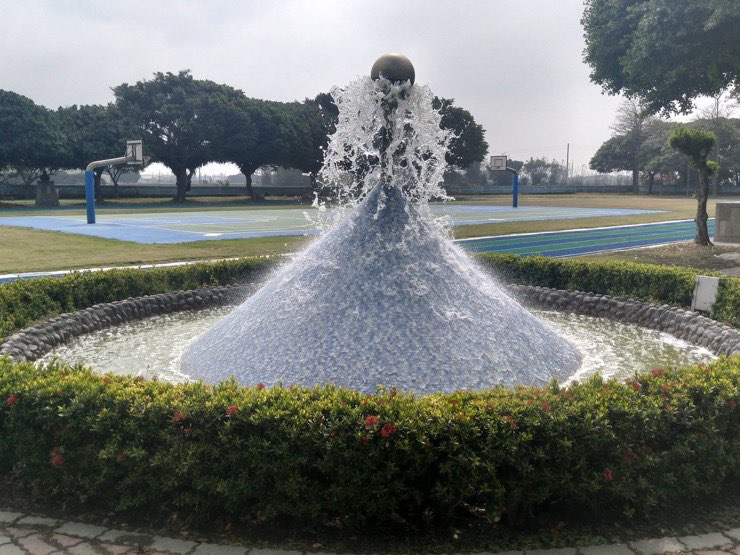
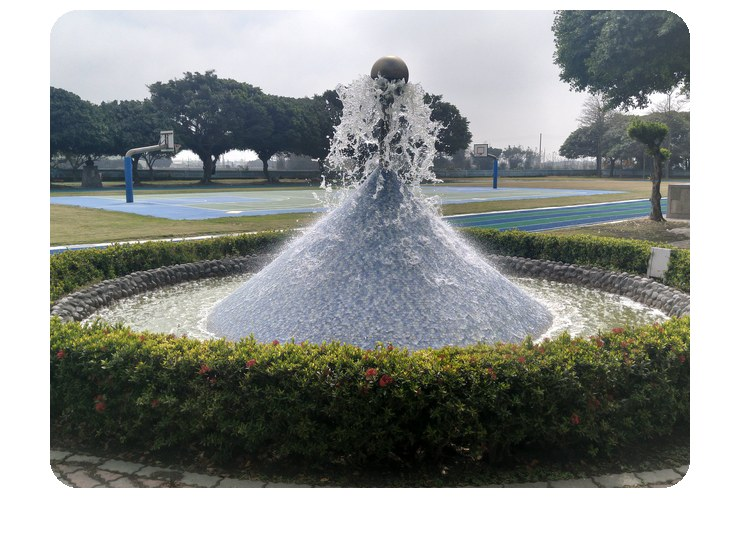
文昌國小卡片圖改用全縣統一規格
原本直接滿版裁切，與其他卡片不一致（沒有白底內縮，也沒有圓角）。
改為量自既有卡片的規格：740×555 白底、照片 640×478 置於 (50,10)、
圓角 28px、底部留白 67px。

diff --git a/schools/index.html b/schools/index.html
@@ -387,7 +387,7 @@
     <span class="badge ">ES</span>
   </div>
 </a><a class="hub-school-card" href="https://changhua-bilingual.org/schools/wenchang/" target="_blank" rel="noopener" data-search="Wenchang 文昌國小 Fuxing Township 福興鄉 wenchang">
-  <img class="photo" src="/assets/images/schools/wenchang.jpg?v=1785463624" alt="Wenchang" loading="lazy">
+  <img class="photo" src="/assets/images/schools/wenchang.jpg?v=1785466171" alt="Wenchang" loading="lazy">
   <div class="body">
     <p class="name">Wenchang</p>
     <p class="zh">文昌國小</p>
